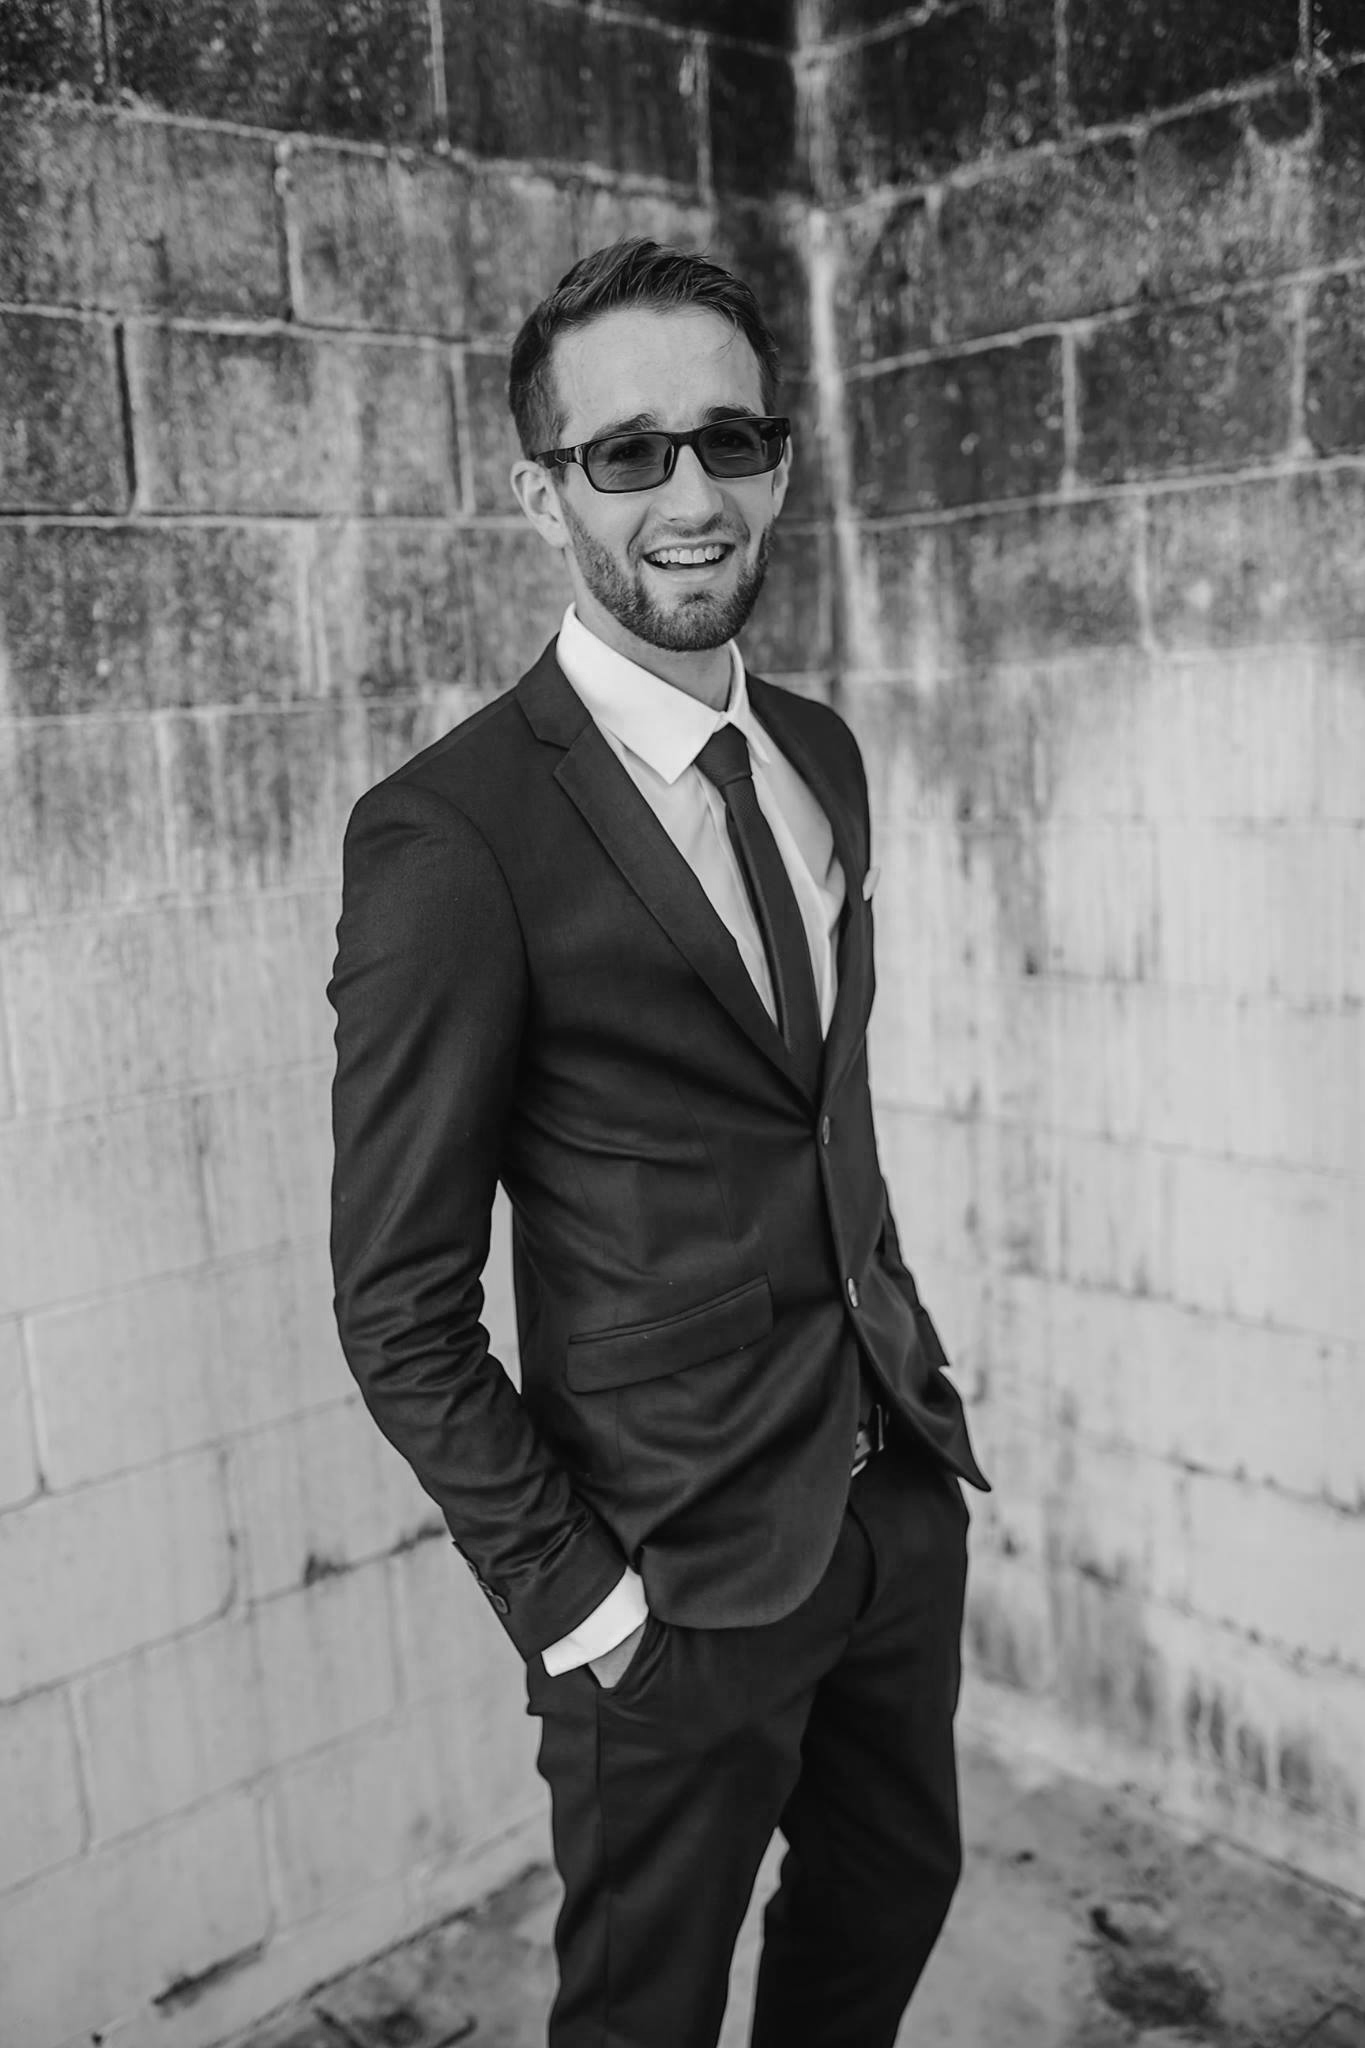
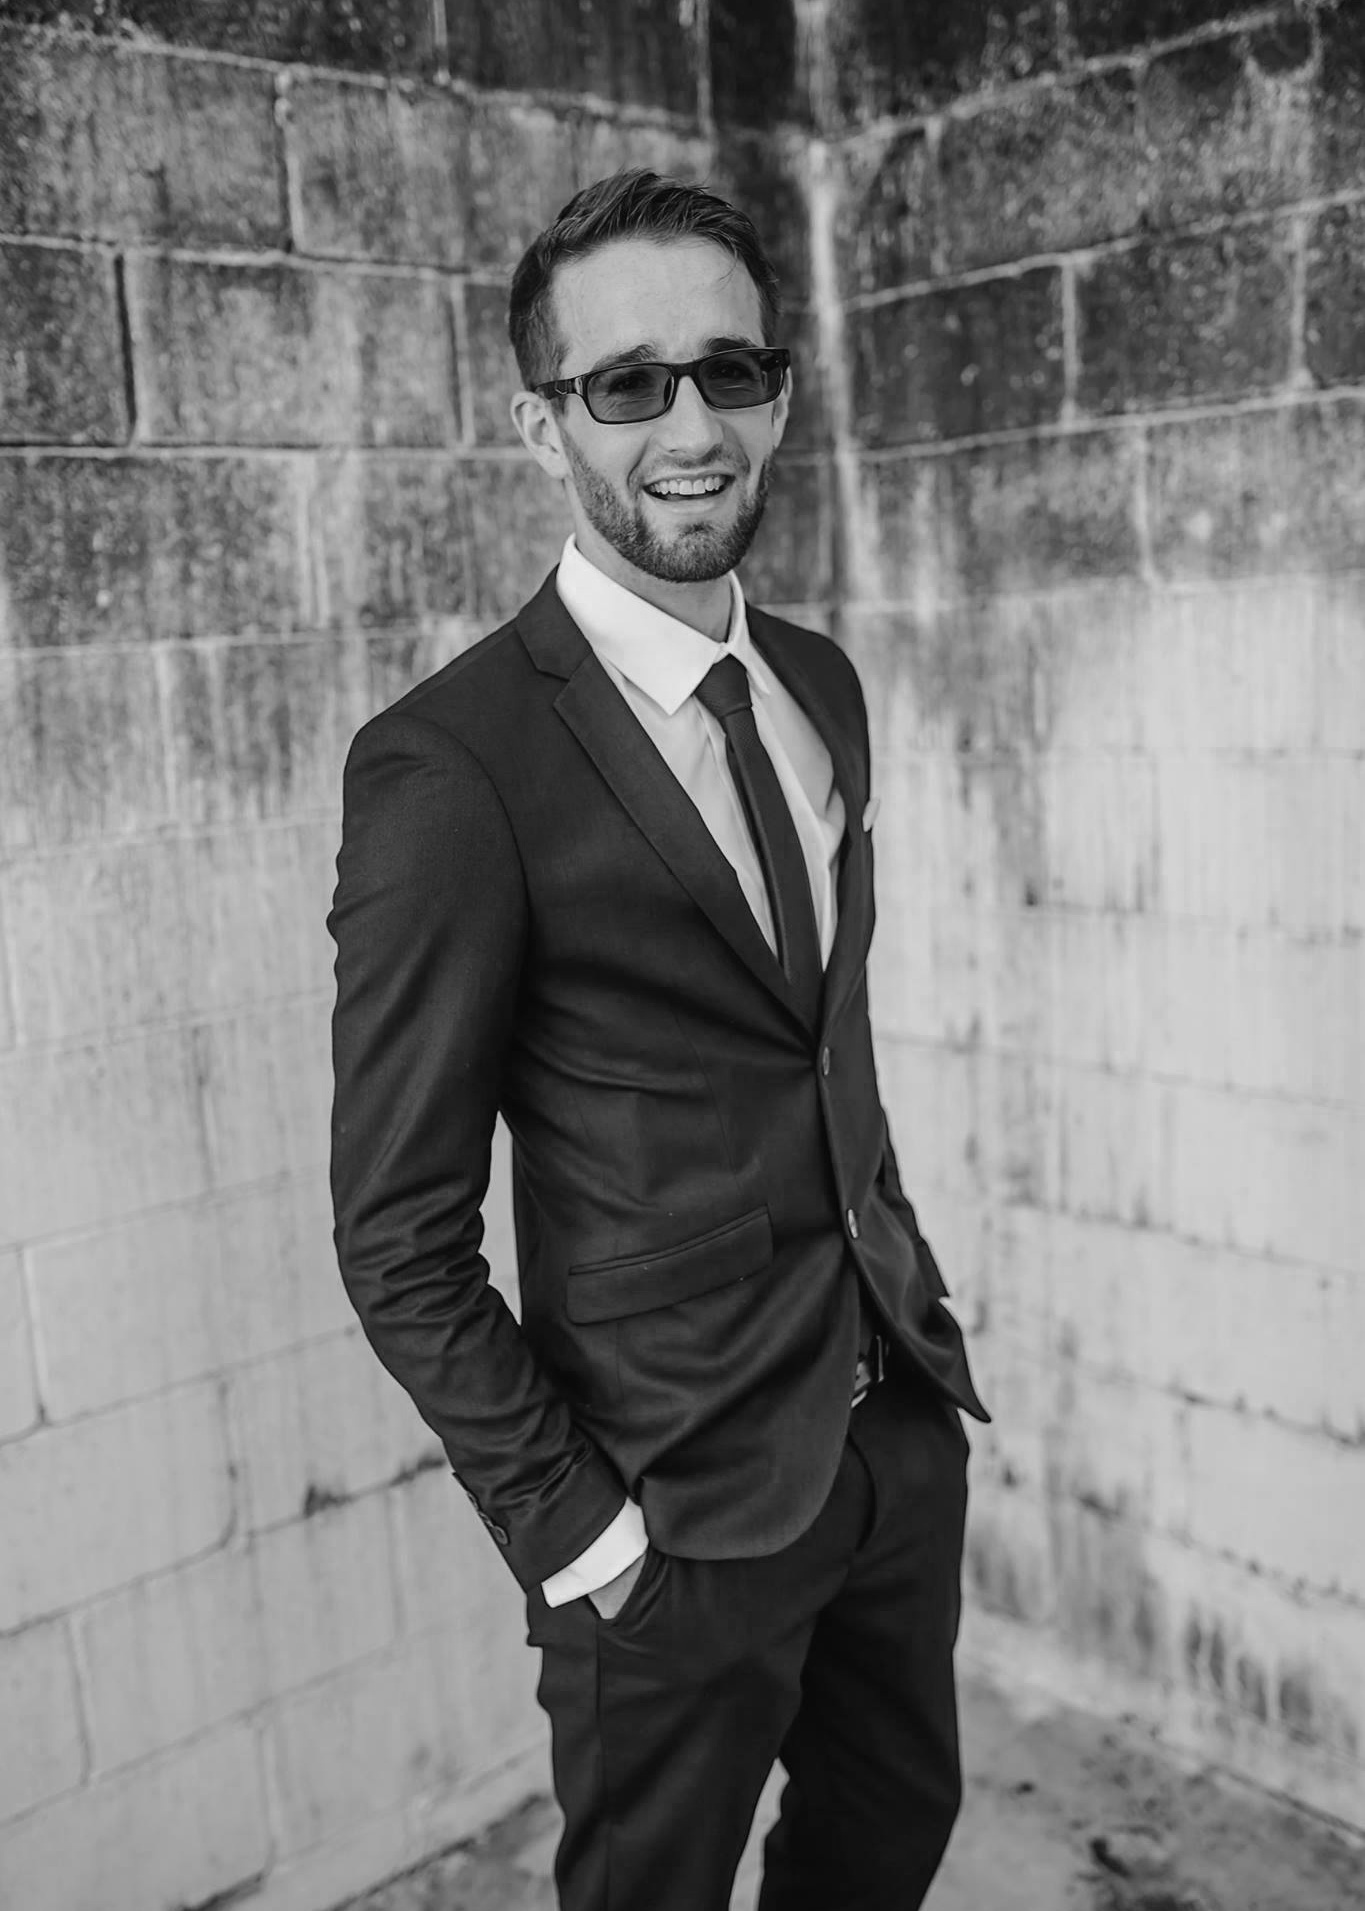
General updates
changed james profile image + nav fixes

diff --git a/about.html b/about.html
@@ -5,7 +5,7 @@
 		<meta name="viewport" content="width=device-width, initial-scale=1.0">
 		<link rel="stylesheet" type="text/css" href="style.css">
 		<script src="https://ajax.googleapis.com/ajax/libs/jquery/1.12.2/jquery.min.js"></script>
-		<script src="toggle.js"></script>
+		<script src="responsiveNav.js"></script>
 		<link href="https://fonts.googleapis.com/css?family=Montserrat:400,700" rel="stylesheet">
 		<link href="https://fonts.googleapis.com/icon?family=Material+Icons" rel="stylesheet">
 	</head>
@@ -32,7 +32,7 @@
 					<div class="profile-label">
 						<h2>James</h2>
 					</div>
-					<img class="profile" src="Images/About/james.jpg">
+					<img class="profile" src="Images/About/james.png">
 				</div>
 				<div class="profile-container">
 					<div class="profile-label">

diff --git a/balloons.html b/balloons.html
@@ -5,7 +5,7 @@
 		<meta name="viewport" content="width=device-width, initial-scale=1.0">
 		<link rel="stylesheet" type="text/css" href="style.css">
 		<script src="https://ajax.googleapis.com/ajax/libs/jquery/1.12.2/jquery.min.js"></script>
-		<script src="toggle.js"></script>
+		<script src="responsiveNav.js"></script>
 		<link href="https://fonts.googleapis.com/css?family=Montserrat:400,700" rel="stylesheet">
 		<link href="https://fonts.googleapis.com/icon?family=Material+Icons" rel="stylesheet">
 	</head>

diff --git a/booking.html b/booking.html
@@ -5,7 +5,7 @@
 		<meta name="viewport" content="width=device-width, initial-scale=1.0">
 		<link rel="stylesheet" type="text/css" href="style.css">
 		<script src="https://ajax.googleapis.com/ajax/libs/jquery/1.12.2/jquery.min.js"></script>
-		<script src="toggle.js"></script>
+		<script src="responsiveNav.js"></script>
 		<link href="https://fonts.googleapis.com/css?family=Montserrat:400,700" rel="stylesheet">
 		<link href="https://fonts.googleapis.com/icon?family=Material+Icons" rel="stylesheet">
 	</head>

diff --git a/index.html b/index.html
@@ -5,7 +5,7 @@
 		<meta name="viewport" content="width=device-width, initial-scale=1.0">
 		<link rel="stylesheet" type="text/css" href="style.css">
 		<script src="https://ajax.googleapis.com/ajax/libs/jquery/1.12.2/jquery.min.js"></script>
-		<script src="toggle.js"></script>
+		<script src="responsiveNav.js"></script>
 		<link href="https://fonts.googleapis.com/css?family=Montserrat:400,700" rel="stylesheet">
 		<link href="https://fonts.googleapis.com/icon?family=Material+Icons" rel="stylesheet">
 	</head>

diff --git a/mobspoke.html b/mobspoke.html
@@ -5,7 +5,7 @@
 		<meta name="viewport" content="width=device-width, initial-scale=1.0">
 		<link rel="stylesheet" type="text/css" href="style.css">
 		<script src="https://ajax.googleapis.com/ajax/libs/jquery/1.12.2/jquery.min.js"></script>
-		<script src="toggle.js"></script>
+		<script src="responsiveNav.js"></script>
 		<link href="https://fonts.googleapis.com/css?family=Montserrat:400,700" rel="stylesheet">
 		<link href="https://fonts.googleapis.com/icon?family=Material+Icons" rel="stylesheet">
 	</head>

diff --git a/services.html b/services.html
@@ -5,7 +5,7 @@
 		<meta name="viewport" content="width=device-width, initial-scale=1.0">
 		<link rel="stylesheet" type="text/css" href="style.css">
 		<script src="https://ajax.googleapis.com/ajax/libs/jquery/1.12.2/jquery.min.js"></script>
-		<script src="toggle.js"></script>
+		<script src="responsiveNav.js"></script>
 		<link href="https://fonts.googleapis.com/css?family=Montserrat:400,700" rel="stylesheet">
 		<link href="https://fonts.googleapis.com/icon?family=Material+Icons" rel="stylesheet">
 	</head>

diff --git a/torutek.html b/torutek.html
@@ -5,7 +5,7 @@
 		<meta name="viewport" content="width=device-width, initial-scale=1.0">
 		<link rel="stylesheet" type="text/css" href="style.css">
 		<script src="https://ajax.googleapis.com/ajax/libs/jquery/1.12.2/jquery.min.js"></script>
-		<script src="toggle.js"></script>
+		<script src="responsiveNav.js"></script>
 		<link href="https://fonts.googleapis.com/css?family=Montserrat:400,700" rel="stylesheet">
 		<link href="https://fonts.googleapis.com/icon?family=Material+Icons" rel="stylesheet">
 	</head>

diff --git a/style.css b/style.css
@@ -12,7 +12,7 @@
 }
 
 .logo-text, h1, h2, h3, p, ul, li, a {
-	font-family: "Gilroy", serif;
+	font-family: "Gilroy", sans-serif;
 }
 
 body, p, a, h1, h2, h3, ul, li {
@@ -259,7 +259,7 @@ ul, li, a {
 .profile-label {
 	z-index: 10;
 	position: absolute;
-	top: 600px;
+	top: 560px;
 	padding: 24px;
 	width: auto;
 	background-color: #f8b133;
